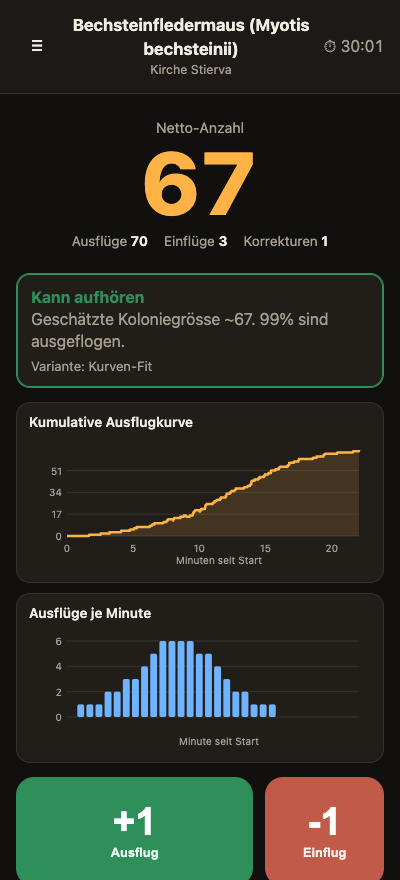
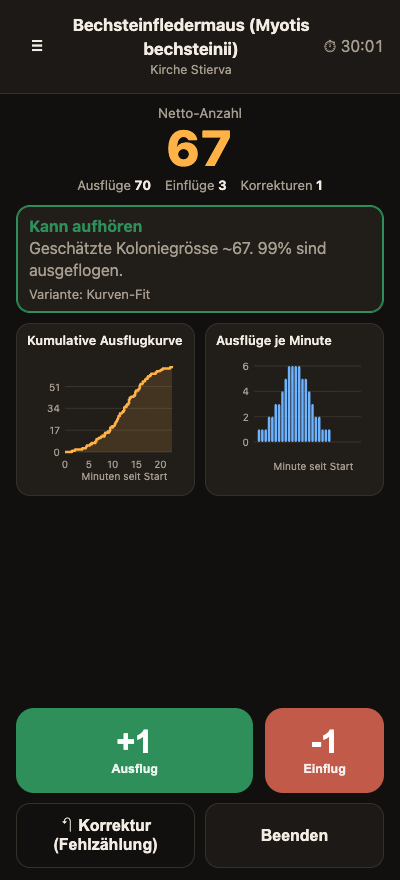
Zaehl-Screen passt ohne Scrollen auf eine Bildschirmhoehe
- Netto-Zahl kompakter, beide Live-Graphen nebeneinander, Buttons unten fixiert
- Screen nicht scrollbar (height 100dvh, overflow hidden); Graphen-Zone schrumpft zuerst, Buttons bleiben auf jeder Hoehe sichtbar (flexibler Spacer)
- Charts nur noch bei Datenaenderung statt im Sekundentakt rendern -> behebt den Sprung-nach-oben-Bug
- SW-Cache fz-v7, Screenshot aktualisiert

diff --git a/css/style.css b/css/style.css
@@ -103,36 +103,46 @@ textarea { resize: vertical; }
   background: var(--bg2); border: 1px dashed var(--accent); border-radius: var(--radius); padding: 12px 14px;
 }
 
-/* Zaehl-Screen */
-.count-main { justify-content: space-between; }
-.saldo-wrap { text-align: center; padding: 8px 0; }
-.saldo-label { color: var(--muted); font-size: .9rem; }
-.saldo { font-size: 5.5rem; font-weight: 800; line-height: 1; font-variant-numeric: tabular-nums; color: var(--accent); }
-.ministats { display: flex; justify-content: center; gap: 16px; color: var(--muted); font-size: .85rem; margin-top: 6px; }
+/* Zaehl-Screen: passt ohne Scrollen auf eine Bildschirmhoehe */
+#view-count { height: 100dvh; }
+#view-count .content { overflow: hidden; gap: 10px; padding: 10px 16px 12px; }
+.count-main { justify-content: flex-start; }
+
+.saldo-wrap { text-align: center; padding: 0; }
+.saldo-label { color: var(--muted); font-size: .85rem; }
+.saldo { font-size: 3.1rem; font-weight: 800; line-height: 1; font-variant-numeric: tabular-nums; color: var(--accent); }
+.ministats { display: flex; justify-content: center; gap: 14px; color: var(--muted); font-size: .82rem; margin-top: 4px; }
 .ministats b { color: var(--fg); }
 
-.estimate { border: 1px solid var(--border); border-radius: var(--radius); padding: 12px 14px; background: var(--card); }
+.estimate { border: 1px solid var(--border); border-radius: var(--radius); padding: 9px 12px; background: var(--card); }
 .estimate.ok { border-color: var(--ok); box-shadow: inset 0 0 0 1px var(--ok); }
 .estimate.wait { border-color: var(--wait); }
 .est-titel { font-weight: 700; }
 .estimate.ok .est-titel { color: var(--ok); }
 .estimate.wait .est-titel { color: var(--wait); }
-.est-variante { margin-top: 4px; }
+.est-variante { margin-top: 3px; }
 
-.live-charts { display: flex; flex-direction: column; gap: 10px; }
-.card.mini { padding: 10px 12px; }
-.card.mini .card-title { font-size: .85rem; margin-bottom: 4px; }
+/* Live-Graphen nebeneinander; die Zone schrumpft als erste, damit die
+   Buttons auf jeder Bildschirmhoehe sichtbar bleiben (statt zu ueberlaufen) */
+.live-charts {
+  display: grid; grid-template-columns: 1fr 1fr; gap: 10px;
+  flex: 0 1 auto; min-height: 0; align-content: start; overflow: hidden;
+}
+.live-charts .card.mini { min-width: 0; padding: 8px 10px; }
+.card.mini .card-title { font-size: .8rem; margin-bottom: 2px; }
+/* flexibler Abstand: haelt die Buttons unten, schrumpft auf kleinen Schirmen */
+.count-spacer { flex: 1 1 0; min-height: 0; }
 
 .count-buttons { display: grid; grid-template-columns: 2fr 1fr; gap: 12px; }
 .cbtn {
-  border: none; border-radius: 18px; color: #fff; font-size: 2.4rem; font-weight: 800;
-  padding: 26px 0; cursor: pointer; display: flex; flex-direction: column; align-items: center; line-height: 1;
+  border: none; border-radius: 18px; color: #fff; font-size: 2rem; font-weight: 800;
+  padding: 18px 0; cursor: pointer; display: flex; flex-direction: column; align-items: center; line-height: 1;
 }
-.cbtn small { font-size: .8rem; font-weight: 600; margin-top: 6px; opacity: .9; }
+.cbtn small { font-size: .78rem; font-weight: 600; margin-top: 5px; opacity: .9; }
 .cbtn.out { background: var(--out); }
 .cbtn.in { background: var(--in); }
 .cbtn.flash, .btn.flash { filter: brightness(1.4); }
-.count-buttons2 { display: grid; grid-template-columns: 1fr 1fr; gap: 12px; }
+.count-buttons2 { display: grid; grid-template-columns: 1fr 1fr; gap: 10px; }
 
 /* Resultat */
 .res-head { text-align: center; }

diff --git a/js/app.js b/js/app.js
@@ -136,6 +136,7 @@ function openCount(session) {
   qs("#count-art").textContent = current.art;
   show("view-count");
   updateCountUI();
+  renderLiveCharts();
   if (tickTimer) clearInterval(tickTimer);
   tickTimer = setInterval(updateCountUI, 1000);
 }
@@ -144,6 +145,7 @@ function addEvent(typ) {
   current.events.push({ t: Date.now(), typ, gueltig: true, voidT: null });
   saveSession(current);
   updateCountUI();
+  renderLiveCharts();
   flash(typ === "out" ? "#btn-out" : "#btn-in");
 }
 
@@ -155,6 +157,7 @@ function undoLast() {
       current.events[i].voidT = Date.now();
       saveSession(current);
       updateCountUI();
+      renderLiveCharts();
       flash("#btn-undo");
       return;
     }
@@ -184,8 +187,6 @@ function updateCountUI() {
   qs("#est-titel").textContent = est.titel;
   qs("#est-detail").textContent = est.detail;
   qs("#est-variante").textContent = "Variante: " + ESTIMATOR_LABEL[settings.estimator];
-
-  renderLiveCharts();
 }
 
 // Live-Charts waehrend des Zaehlens. Erst ab LIVE_CHART_MIN Ausfluegen sichtbar.
@@ -193,7 +194,7 @@ function renderLiveCharts() {
   const box = qs("#live-charts");
   const nOut = validEvents(current.events).filter((e) => e.typ === "out").length;
   if (nOut < LIVE_CHART_MIN) { box.style.display = "none"; return; }
-  box.style.display = "flex";
+  box.style.display = "grid";
   renderCumulative(qs("#live-chart-cum"), netSeries(current.events), current.startMs, 130);
   renderHistogram(qs("#live-chart-hist"), exitsPerMinute(current.events, current.startMs, Date.now()), 120);
 }

diff --git a/index.html b/index.html
@@ -95,6 +95,8 @@
         </div>
       </div>
 
+      <div class="count-spacer"></div>
+
       <div class="count-buttons">
         <button id="btn-out" class="cbtn out">+1<small>Ausflug</small></button>
         <button id="btn-in" class="cbtn in">-1<small>Einflug</small></button>

diff --git a/service-worker.js b/service-worker.js
@@ -1,5 +1,5 @@
 // Offline-Cache. Bei Aenderungen CACHE-Version erhoehen.
-const CACHE = "fz-v6";
+const CACHE = "fz-v7";
 const ASSETS = [
   "./",
   "./index.html",